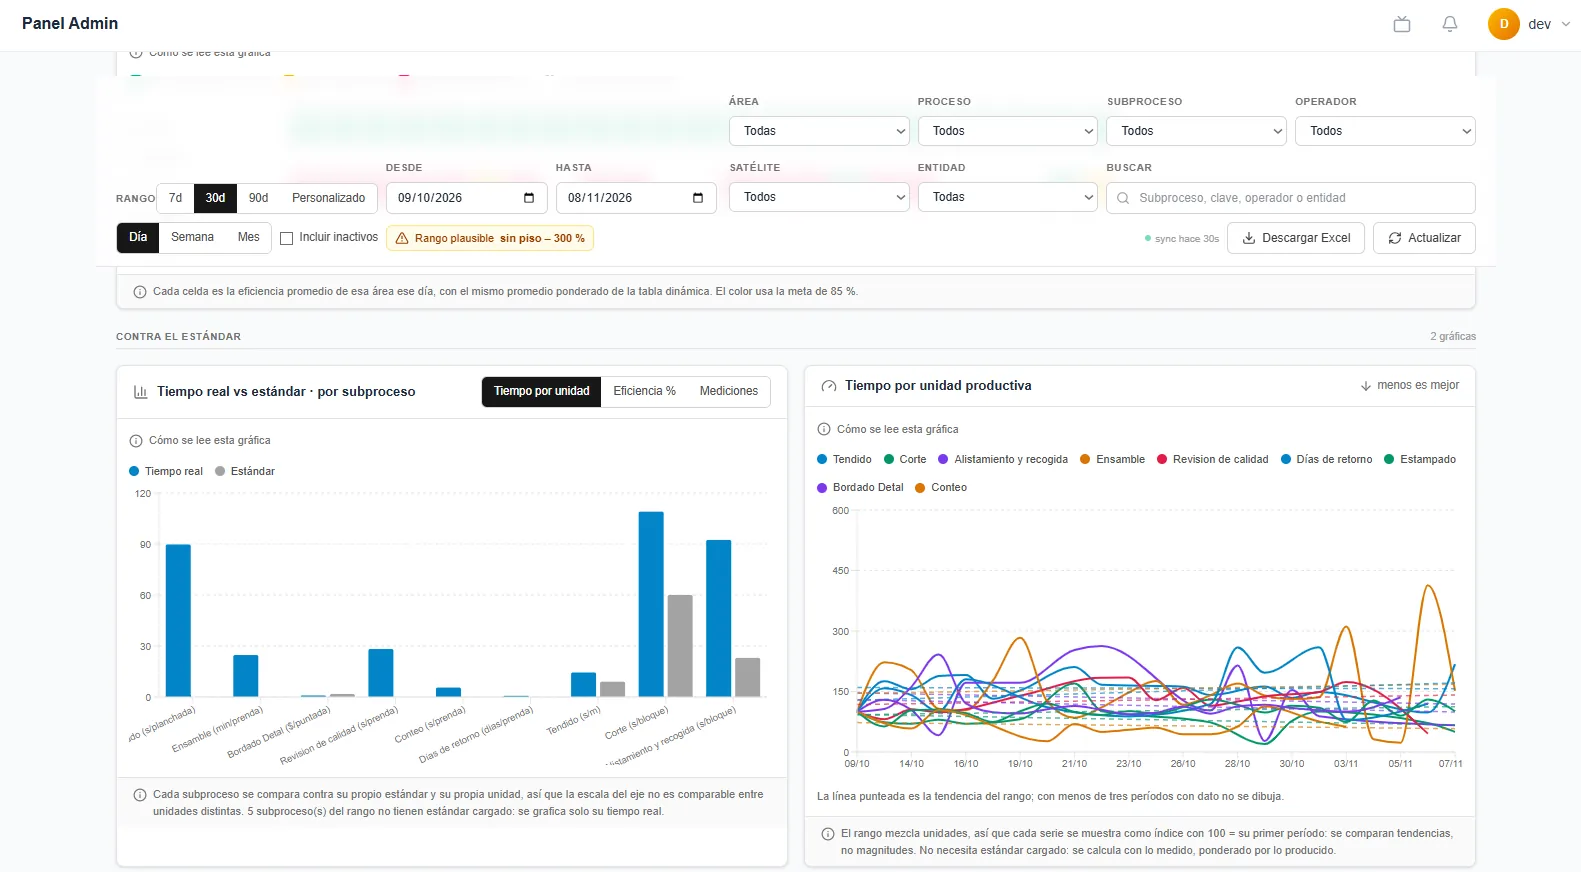
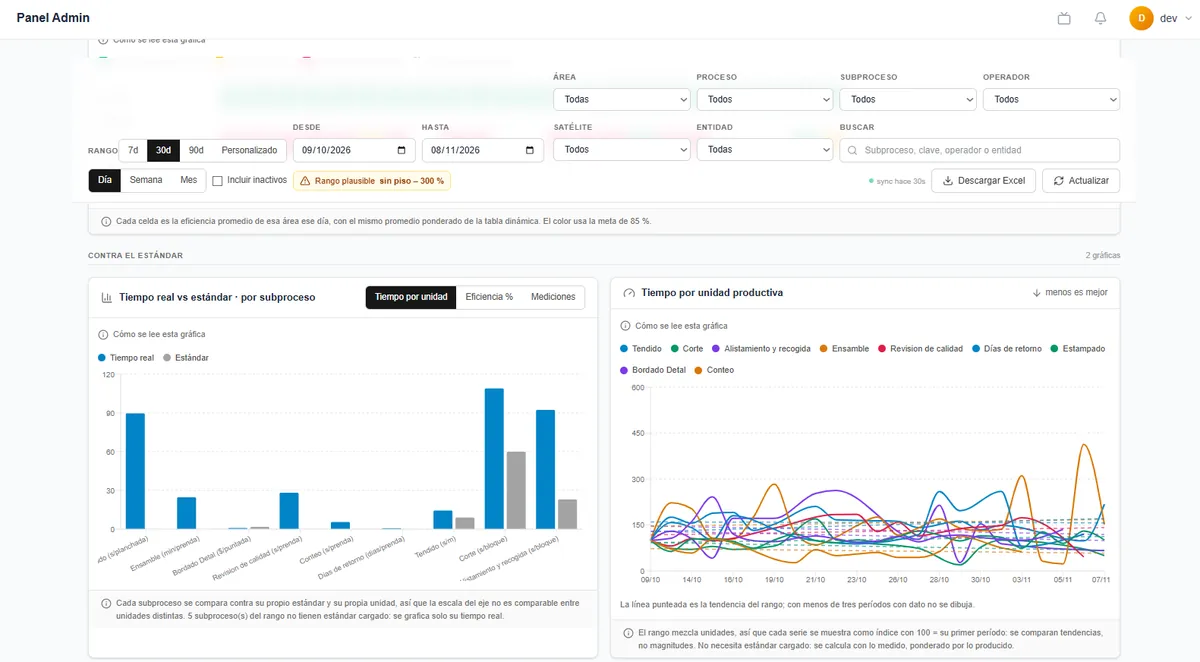
perf: serve WebP images with intrinsic sizes and lazy loading
- WebP versions of me6 (800/1600 + srcset), AI-setup-image, Multisoluciones,
  Lotto and Latin Lust screenshots; originals kept.
- Klixmant monitoring WebPs re-encoded at 1200px (display max is 600px).
- width/height on about/soft-skills images, loading=lazy + decoding=async
  on below-the-fold and project images.

diff --git a/src/app/components/home/proyects/proyects.component.html b/src/app/components/home/proyects/proyects.component.html
@@ -44,7 +44,7 @@
             <ng-container *ngFor="let img of project.imgs; let imgIndex = index">
                 <ng-template carouselSlide [id]="project.Title+'_slide_'+i+'_'+imgIndex">
                     <div #imgContainer class='img-container'>
-                        <img class='img-feature-proyect rounded' [src]="img" [alt]="project.Title">
+                        <img class='img-feature-proyect rounded' [src]="img" [alt]="project.Title" loading="lazy" decoding="async">
                     </div>
                 </ng-template>
             </ng-container>
@@ -52,7 +52,7 @@
         <div class="img-feature-proyect-container" data-aos="fade-up" data-aos-duration="1000">
             <div class="img-feature-proyect-box">
                 <div class="img-container" style='width: auto;'>
-                    <img class='img-feature-proyect rounded' [src]="project.imgs[0]" [alt]="project.Title" width='600px'>
+                    <img class='img-feature-proyect rounded' [src]="project.imgs[0]" [alt]="project.Title" loading="lazy" decoding="async">
                 </div>
             </div>
         </div>

diff --git a/src/app/components/home/about/about.component.html b/src/app/components/home/about/about.component.html
@@ -54,8 +54,13 @@
           <div class="about-img-container">
             <img
               class="rounded about-image clickable"
-              width="100%"
-              src="assets/images/me6.jpg"
+              width="1600"
+              height="1200"
+              src="assets/images/me6-800.webp"
+              srcset="assets/images/me6-800.webp 800w, assets/images/me6.webp 1600w"
+              sizes="(max-width: 767px) 90vw, 540px"
+              loading="lazy"
+              decoding="async"
               alt="Juan David"
               title="Click para ver imagen ampliada"
             />
@@ -82,7 +87,9 @@
       </button>
       <img
         class="modal-image"
-        src="assets/images/me6.jpg"
+        src="assets/images/me6.webp"
+        width="1600"
+        height="1200"
         alt="Juan David - Imagen ampliada"
         [@zoomIn]
       />

diff --git a/src/app/components/home/soft-skills/soft-skills.component.html b/src/app/components/home/soft-skills/soft-skills.component.html
@@ -24,8 +24,11 @@
           <div class="soft-skills-img-container">
             <img
               class="rounded soft-skills-image clickable"
-              width="100%"
-              src="assets/images/AI-setup-image.png"
+              width="1200"
+              height="800"
+              src="assets/images/AI-setup-image.webp"
+              loading="lazy"
+              decoding="async"
               alt="Soft Skills"
               title="Click para ver imagen ampliada"
             />
@@ -89,7 +92,9 @@
       </button>
       <img
         class="modal-image"
-        src="assets/images/me6.jpg"
+        src="assets/images/me6.webp"
+        width="1600"
+        height="1200"
         alt="Soft Skills - Imagen ampliada"
         [@zoomIn]
       />

diff --git a/src/app/components/home/soft-skills/soft-skills.component.scss b/src/app/components/home/soft-skills/soft-skills.component.scss
@@ -55,6 +55,8 @@
 
         img {
             z-index: 2;
+            width: 100%;
+            height: auto;
             position: relative;
 
             &.clickable {
@@ -128,6 +130,8 @@
 }
 
 .modal-image {
+    width: auto;
+    height: auto;
     max-width: 100%;
     max-height: 100%;
     border-radius: 8px;

diff --git a/src/app/components/home/about/about.component.scss b/src/app/components/home/about/about.component.scss
@@ -43,6 +43,8 @@
 
         img{
             z-index: 2;
+            width: 100%;
+            height: auto;
             position: relative;
 
             &.clickable {
@@ -116,6 +118,8 @@
 }
 
 .modal-image {
+    width: auto;
+    height: auto;
     max-width: 100%;
     max-height: 100%;
     border-radius: 8px;
